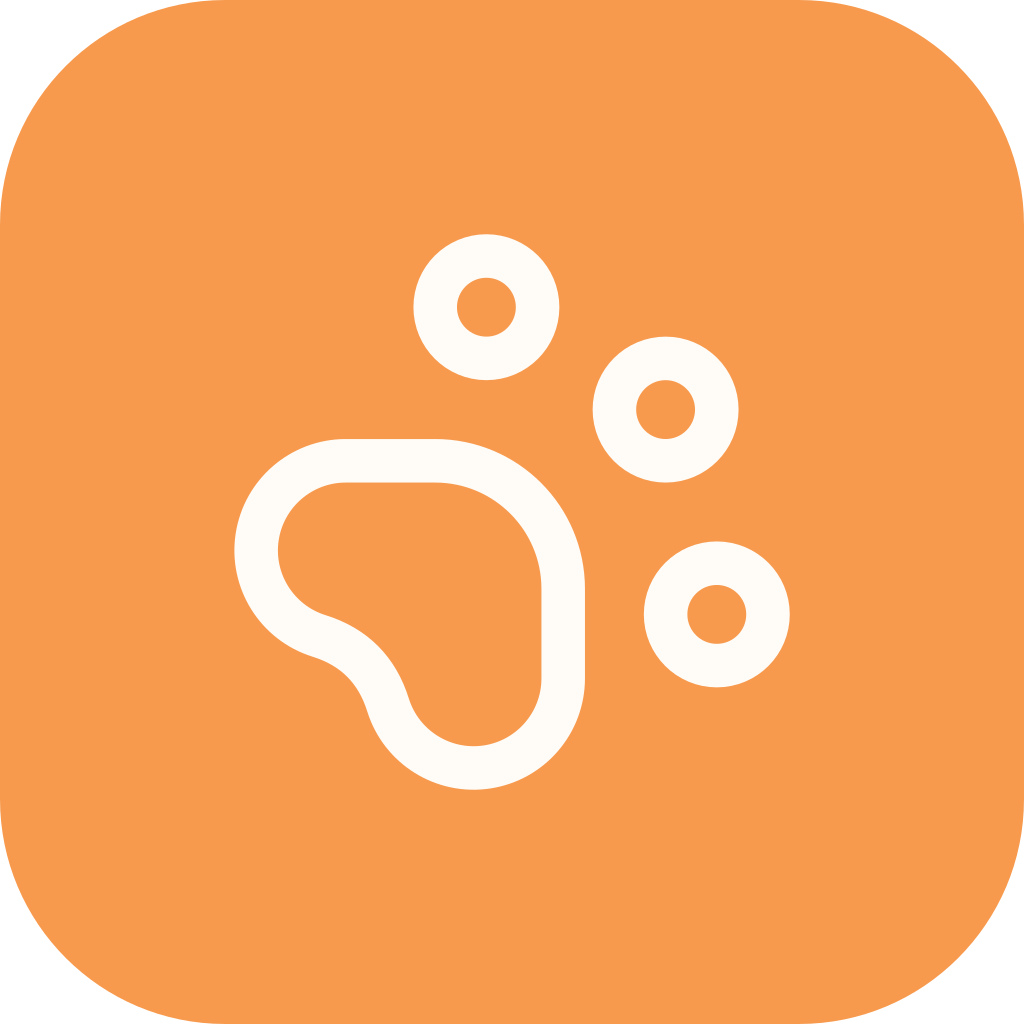
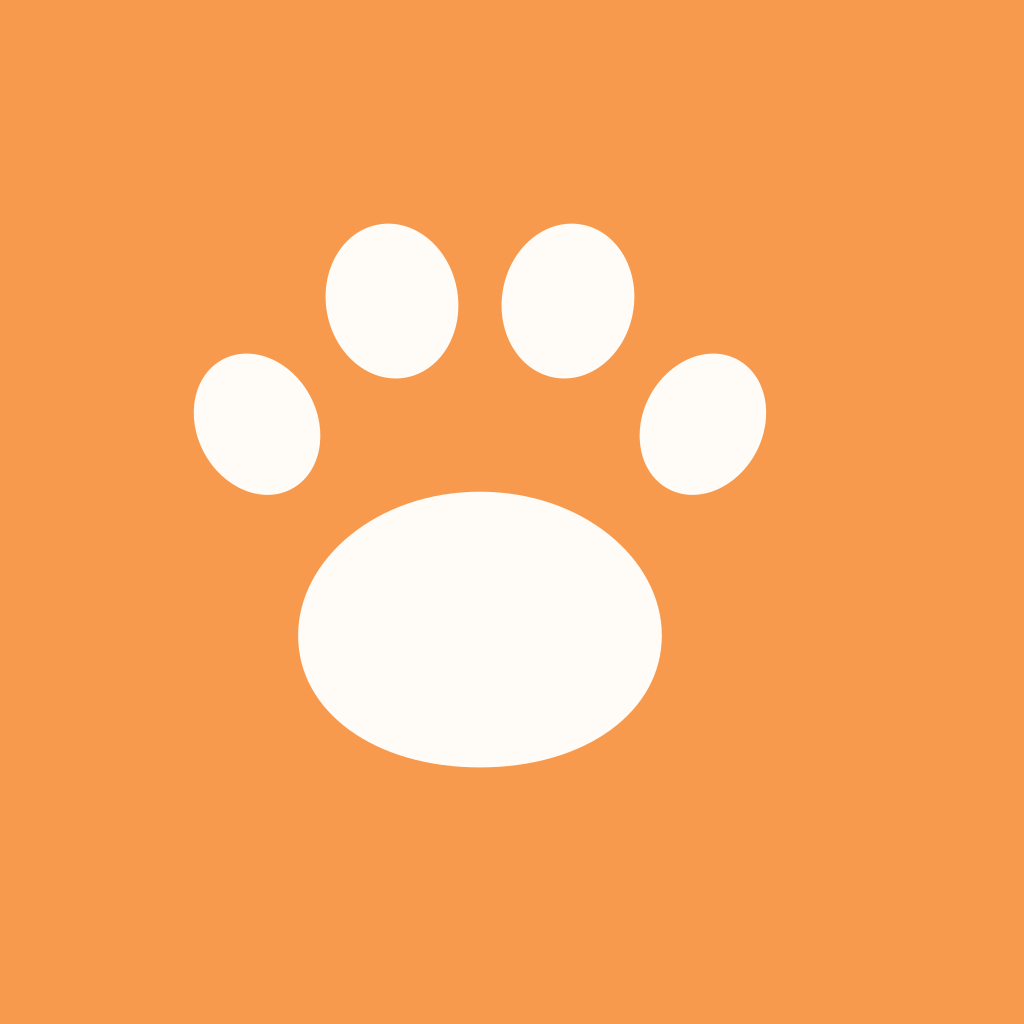
fix(brand): four-pad cat paw
The mark was Lucide's `paw-print`, which has three toes. A cat's paw has four,
so the logo was wrong everywhere it appears: the sidebar brand pill, the login
and signup decorations, the landing hero, the favicon and the touch icon.

The glyph is now drawn in src/icons.tsx rather than borrowed — four toes on an
arc, outer two splayed the way a real print is, over an oval pad. It is filled
where the rest of the icon set is stroked, and that is deliberate: a print is
solid, and I rendered the stroked version at 16/24/32px first — the toes merge
into the pad at exactly the sizes the sidebar (20px) and the tab (16px) use.
Proportions were picked the same way, comparing rasterized candidates rather
than guessing.

public/favicon.svg mirrors the geometry, and apple-touch-icon.png is generated
from it — full bleed now, no rounded corners, since iOS masks it anyway.

Still on the old three-toe mark, both needing more than an asset swap:
mobile/assets/images/*.png (an app icon change needs a native rebuild, not an
OTA) and video/src/brand/PawLogo.tsx (its draw-on animation is built around the
stroked geometry).

diff --git a/src/icons.tsx b/src/icons.tsx
@@ -59,7 +59,12 @@ const M_ICONS = {
   repeat:
     '<path d="m17 2 4 4-4 4"/><path d="M3 11v-1a4 4 0 0 1 4-4h14"/><path d="m7 22-4-4 4-4"/><path d="M21 13v1a4 4 0 0 1-4 4H3"/>',
   grad: '<path d="M21.42 10.922a1 1 0 0 0-.019-1.838L12.83 5.18a2 2 0 0 0-1.66 0L2.6 9.08a1 1 0 0 0 0 1.832l8.57 3.908a2 2 0 0 0 1.66 0z"/><path d="M22 10v6"/><path d="M6 12.5V16a6 3 0 0 0 12 0v-3.5"/>',
-  paw: '<circle cx="11" cy="4" r="2"/><circle cx="18" cy="8" r="2"/><circle cx="20" cy="16" r="2"/><path d="M9 10a5 5 0 0 1 5 5v3.5a3.5 3.5 0 0 1-6.84 1.045Q6.52 17.48 4.46 16.84A3.5 3.5 0 0 1 5.5 10z"/>',
+  // Mochi's brand mark, so it is drawn here rather than borrowed: a cat's paw has FOUR toes
+  // over the pad, and Lucide's `paw-print` (what this used to be) has three. Filled, not
+  // stroked like the rest of the set — a print is solid, and stroked toes merge into the pad
+  // below ~24px, which is exactly the size the sidebar and the favicon use. The outer toes
+  // splay outward the way a real print does. Mirrored in public/favicon.svg.
+  paw: '<g fill="currentColor" stroke="none"><ellipse cx="4.4" cy="10.1" rx="2.05" ry="2.5" transform="rotate(-28 4.4 10.1)"/><ellipse cx="9" cy="5.9" rx="2.25" ry="2.65" transform="rotate(-10 9 5.9)"/><ellipse cx="15" cy="5.9" rx="2.25" ry="2.65" transform="rotate(10 15 5.9)"/><ellipse cx="19.6" cy="10.1" rx="2.05" ry="2.5" transform="rotate(28 19.6 10.1)"/><path d="M12 12.4c3.5 0 6.2 2.3 6.2 4.9 0 2.6-2.6 4.5-6.2 4.5s-6.2-1.9-6.2-4.5c0-2.6 2.7-4.9 6.2-4.9z"/></g>',
   sparkle:
     '<path d="M9.937 15.5A2 2 0 0 0 8.5 14.063l-6.135-1.582a.5.5 0 0 1 0-.962L8.5 9.936A2 2 0 0 0 9.937 8.5l1.582-6.135a.5.5 0 0 1 .963 0L14.063 8.5A2 2 0 0 0 15.5 9.937l6.135 1.581a.5.5 0 0 1 0 .964L15.5 14.063a2 2 0 0 0-1.437 1.437l-1.582 6.135a.5.5 0 0 1-.963 0z"/>',
   flag: '<path d="M4 15s1-1 4-1 5 2 8 2 4-1 4-1V3s-1 1-4 1-5-2-8-2-4 1-4 1z"/><line x1="4" x2="4" y1="22" y2="15"/>',

diff --git a/CHANGELOG.md b/CHANGELOG.md
@@ -6,6 +6,9 @@ One entry per push to `main`. Newest first. Add one with:
 Version is `v{major}.{build}`. `major` lives in `shared/version.json`; the build number is
 derived from the git commit count and is never stored.
 
+## v0.0301 — 2026-08-22
+Brand mark is now a real four-pad cat paw (filled), replacing Lucide's three-toe paw-print across the app, the favicon and the touch icon.
+
 ## v0.0300 — 2026-08-22
 Favicon is now a round disc instead of a rounded square.
 
